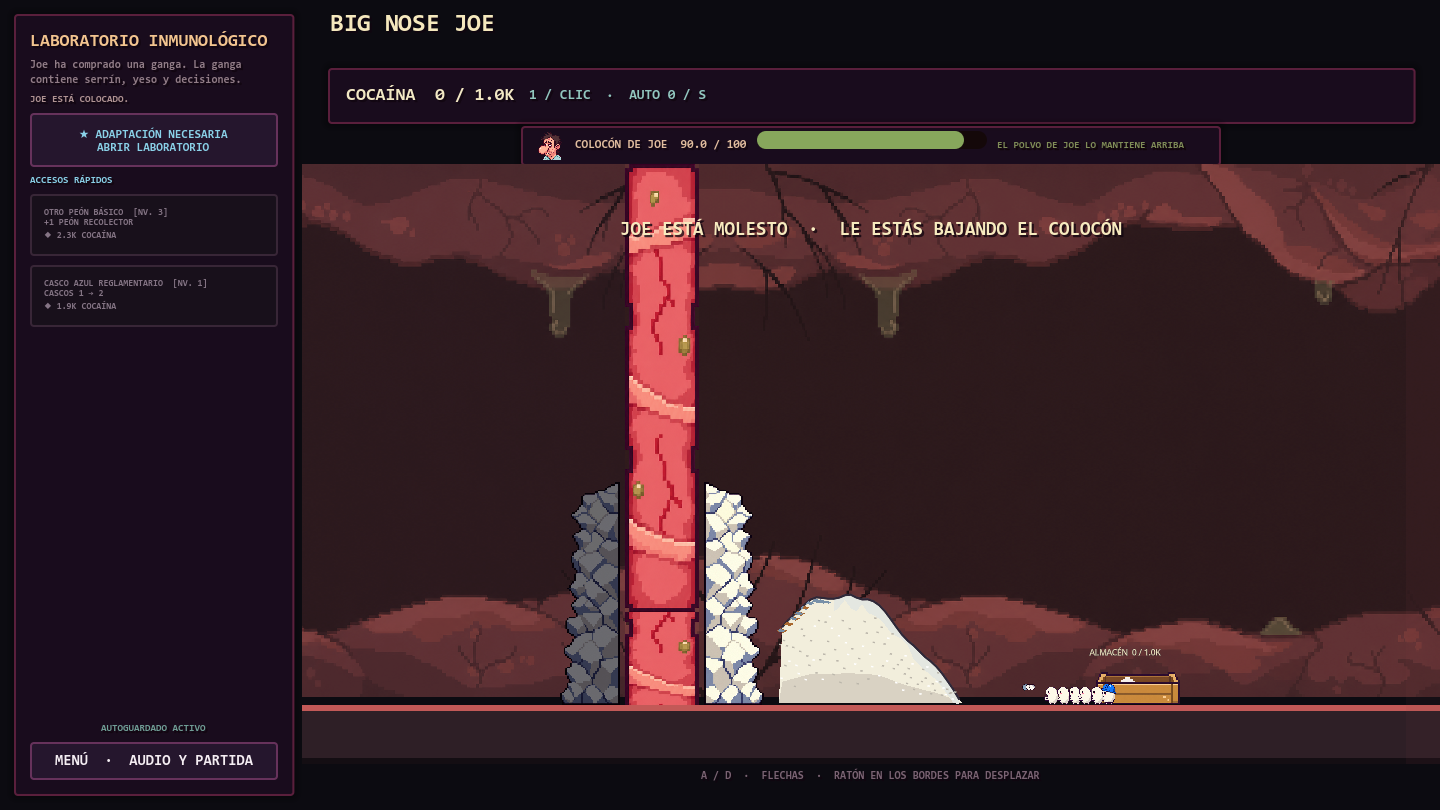
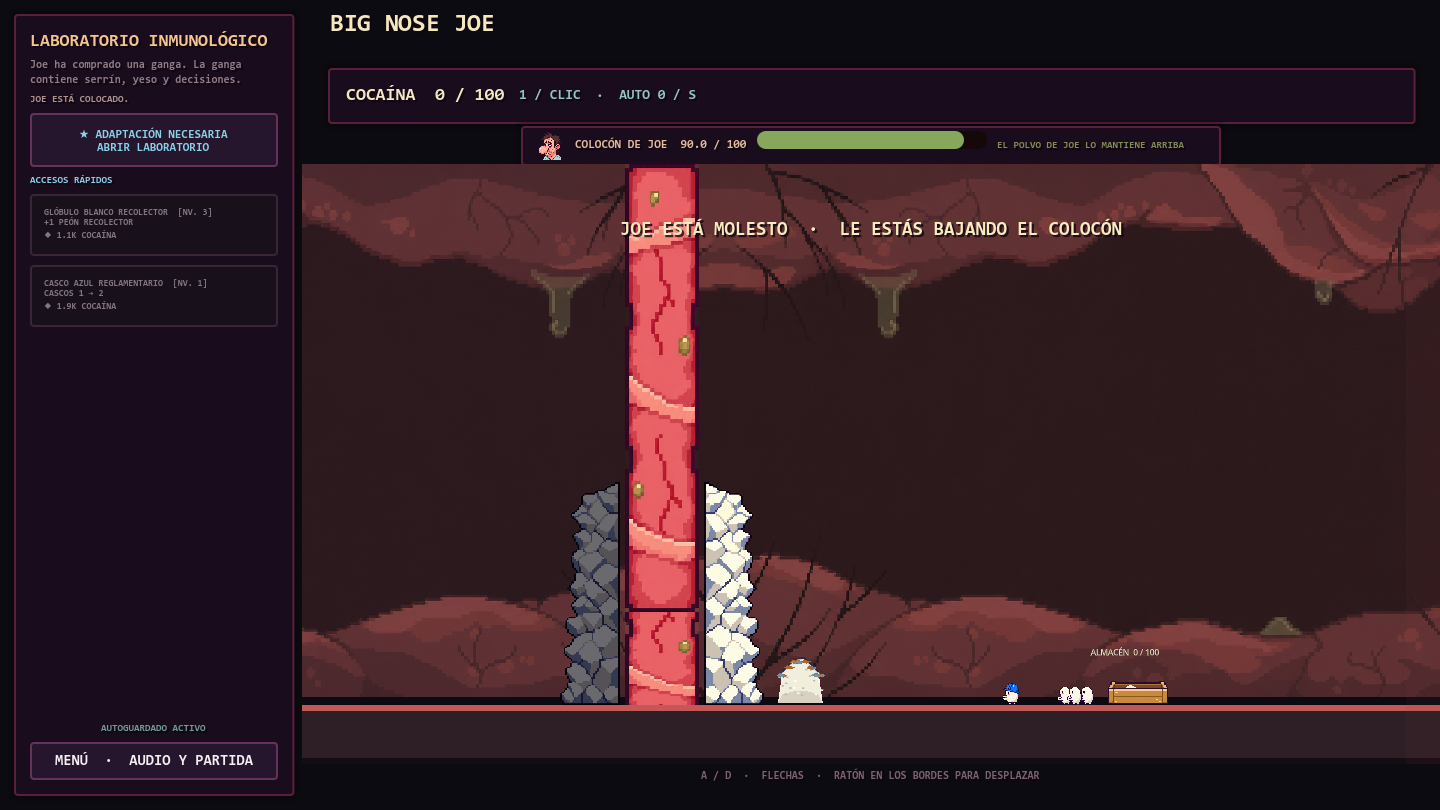
Cambios en la nieve

diff --git a/README.md b/README.md
@@ -27,19 +27,19 @@ La tienda lineal ha sido sustituida por el `LABORATORIO DE ADAPTACIONES`. El cat
 4. `SPRAY NASAL DEL BAZAR` — 34%: el spray bloquea y reconstruye pared; el moco verde empieza a repetirse en esta misma fase. Los `MACRÓFAGOS ESPONJA` y las `CATAPULTAS MUCOLÍTICAS` resuelven ambos problemas.
 5. `VOLCÁN ZOOLÓGICO` — 18%: comienzan hemorragia, daño tisular, bacterias, plaquetas y cuidadores mientras todas las locuras anteriores continúan activas.
 
-Las fases ya no avanzan por tiempo ni por entregas. Joe empieza al 90% y cada tramo se desbloquea cuando el jugador logra reducir su colocón hasta 70%, 52%, 34% y 18%. Cada umbral provoca inmediatamente la nueva barbaridad y añade su temporizador al repertorio permanente. El medidor principal de colocón ocupa el centro superior: picar la pared lo hace bajar al instante, muestra las unidades reales extraídas y pulsa en azul; almacenar ese mismo polvo no aplica la reducción dos veces. La versión 18 reinicia los guardados anteriores para estrenar limpiamente la nueva escala de extracción.
+Las fases ya no avanzan por tiempo ni por entregas. Joe empieza al 90% y cada tramo se desbloquea cuando el jugador logra reducir su colocón hasta 70%, 52%, 34% y 18%. Cada umbral provoca inmediatamente la nueva barbaridad y añade su temporizador al repertorio permanente. El medidor principal de colocón ocupa el centro superior: picar la pared lo hace bajar al instante, muestra las unidades reales extraídas y pulsa en azul; almacenar ese mismo polvo no aplica la reducción dos veces. La versión 19 inicia una run limpia: no regala porteadores, parte de una bandeja de 100 unidades y descarta los guardados de prototipos anteriores.
 
 ## Cocaína, apelmazado y transporte
 
 El polvo se representa como una única superficie de nieve continua: cada unidad extraída ocupa exactamente un píxel de pantalla de área, aunque internamente se agrupe en cargas ligeras para conservar el rendimiento. Por eso una descarga de 50 hace crecer la montaña 50 píxeles de masa y una descarga de 500.000 ocupa 500.000: no hay multiplicadores visuales ocultos ni una bolita gigante de valor arbitrario. La silueta forma lomas y valles, nunca torres de canicas. Los pedruscos conservan su propia capa interactiva y pueden sostener pendientes como muros de contención. El tabique actúa como un límite duro: ningún grano ni pedrusco puede atravesarlo o dibujarse por encima de la pared compacta.
 
-La fosa tiene aforo físico. El `LEUCOTOPÓGRAFO DE 1927` muestra su llenado en tiempo real desde el principio: la primera excavación admite 75K de polvo. Si llega al límite, se detiene todo el minado —manual y automático— mientras los porteadores siguen retirando nieve. La tecnología `GALERÍA SUBMUCOSA` desplaza el almacén y abre volumen profundo hasta 600K. No es un requisito impuesto por una fase: solo se vuelve imprescindible cuando el jugador ha decidido llenar la fosa. En fase 3, la `PRENSA DEL SUMIDERO` inaugura la compresión visible y escala el aforo a 100M, 50B y 100T para acompañar a Leucofante, plasma y Supersaiyan.
+El hueco inicial admite 75K de polvo, pero no se presenta todavía como una fosa ni enseña instrumentación que el jugador no ha construido. Si llega al límite, se detiene todo el minado —manual y automático— mientras los porteadores siguen retirando nieve. La tecnología `FOSA SUBMUCOSA` desplaza el almacén, abre volumen profundo hasta 600K y hace aparecer tanto al `LEUCOTOPÓGRAFO DE 1927` como su medidor en tiempo real. No es un requisito impuesto por una fase: solo se vuelve imprescindible cuando el jugador ha decidido llenar el espacio inicial. En fase 3, la `PRENSA DEL SUMIDERO` inaugura la compresión visible y escala el espacio a 100M, 50B y 100T para acompañar a Leucofante, plasma y Supersaiyan.
 
 La primera `OTRA RAYITA` presenta el apelmazado antes del umbral del 70%, con un máximo introductorio de dos pedruscos. El primero revela y marca en azul la mejora de cascos. Al entrar en la segunda fase el límite sube a ocho. Un grano con al menos cinco vecinos cercanos forma un pedrusco de seis unidades. Con producción tranquila se comprueba el montón cada 24 aterrizajes; por encima de dos clics por segundo baja a 18 y por encima de cuatro baja a 12. La extracción automática puede llevar la cadencia hasta un mínimo de ocho aterrizajes. Los pedruscos conservan su valor, bloquean la recogida y solo los cascos azules pueden tratarlos y llevarlos.
 
 Los peones recorren un ciclo físico de recogida y transporte: salen vacíos de la caja, extraen piezas expuestas de la superficie y las representan como una pequeña pila de nieve delante del cuerpo antes de depositarla dentro del almacén. La mini-pila es una sola silueta visual; las piezas conservan su valor real en la lógica. No minan la pared; esa función pertenece al jugador y a las unidades de extracción. Peón y carga pasan a capas de primer plano durante el transporte, por lo que ningún almacén puede ocultarlos. Tras desbloquear los cascos azules, `APELMAZADO INTELIGENTE` les permite agrupar 3, 5, 8 y finalmente 12 granos normales dentro de cada mini-pila; los pedruscos hostiles siguen siendo trabajo exclusivo de los cascos azules. `TRABAJO EN CADENA` se muestra desde el laboratorio, pero solo puede comprarse después de perforar el tabique.
 
-Los peones blancos se dedican exclusivamente a recoger y transportar. La logística crece como una cadena visible y separada: cajón de 1.000, contenedor de 5.000, doble fondo de 25.000, almacén alveolar de 100.000, silo de 2 millones, silo ampliado de 10 millones, bóveda presurizada de 100 millones, bóveda hiperbárica de 1.000 millones, planta de 10.000 millones y planta de fusión de 100.000 millones. Cada salto fuerte de transporte exige primero la instalación capaz de recibirlo: el carrito avanza 12 → 60 → 300 → 1.500 unidades y el `MUGIDÓFILO DE CARGA`, 10.000 → 150.000 → 6,5 millones → 100 millones → 10.000 millones. Son mejoras numéricas de los vehículos y edificios existentes, no unidades nuevas. Con toda la logística de fase 2, la recogida ronda 479K/s frente a 471K/s de extracción combinada entre ocho púgiles y el Leucocarnero: puede vaciar el pico de producción sin chocar contra un almacén pequeño. Las ampliaciones posteriores acompañan al Leucofante y al plasma; la carga final del Supersaiyan la retira el Expreso.
+Los peones blancos se dedican exclusivamente a recoger y transportar. Una run comienza sin ninguno: el primer glóbulo blanco es la primera contratación del jugador. La logística crece como una cadena visible y separada: bandeja de 100, contenedor de 1.000, doble fondo de 5.000, almacén alveolar de 100.000, silo de 2 millones, silo ampliado de 10 millones, bóveda presurizada de 100 millones, bóveda hiperbárica de 1.000 millones, planta de 10.000 millones y planta de fusión de 100.000 millones. Cada salto fuerte de transporte exige primero la instalación capaz de recibirlo: el carrito avanza 12 → 60 → 300 → 1.500 unidades y el `MUGIDÓFILO DE CARGA`, 10.000 → 150.000 → 6,5 millones → 100 millones → 10.000 millones. Son mejoras numéricas de los vehículos y edificios existentes, no unidades nuevas. Con toda la logística de fase 2, la recogida ronda 479K/s frente a 471K/s de extracción combinada entre ocho púgiles y el Leucocarnero: puede vaciar el pico de producción sin chocar contra un almacén pequeño. Las ampliaciones posteriores acompañan al Leucofante y al plasma; la carga final del Supersaiyan la retira el Expreso.
 
 El Expreso se desbloquea al final, después de abrir la segunda fosa y construir la planta. Recoge en la fosa derecha, sale cargado por un túnel del extremo derecho y reaparece por el extremo izquierdo para descargar en la planta. El viaje vacío hace el circuito inverso. No existen vías sobre el tabique ni cruces visibles entre fosas. La caja y cada edificio tienen límite real; cuando se llenan, las entregas se detienen hasta que el jugador gasta cocaína o amplía el almacén.
 
@@ -47,11 +47,11 @@ El jugador también puede intervenir directamente en la logística. Al pulsar so
 
 ## Arquitectura para partículas masivas
 
-El polvo jugable ya no crea un `Sprite2D` por bolita. Cada grano es un objeto de datos ligero y se dibuja mediante `RenderingServer` en `MultiMesh` separados por fosa, textura, material y estado —montaña o carga—. Veinte mil granos equivalentes ocupan muy pocos lotes y añaden cero nodos de partícula al árbol de escenas. Los pedruscos conservan únicamente sus grietas como nodos escasos e interactivos.
+El polvo jugable ya no crea un `Sprite2D` por bolita. Cada carga es un objeto de datos ligero, pero toda la masa ordinaria se dibuja como una única superficie procedural por fosa: veinte mil granos equivalentes no necesitan lotes de sprites ni veinte mil nodos. `RenderingServer` queda reservado para las excepciones visuales que sí deben conservar identidad propia. Los pedruscos mantienen sus grietas como nodos escasos e interactivos.
 
 Las alturas, superficies, cargas y pedruscos se indexan por fosa y columna. Colocar o consultar una bola no recorre el montón completo; el apelmazado construye una cuadrícula local y solo compara celdas vecinas. Todas las caídas y vuelos manuales comparten un único actualizador, sin un `Tween` por partícula. El tren reclama y deposita cargas masivas por lotes y el guardado agrupa secuencias equivalentes dentro de cada columna.
 
-La prueba de regresión fija veinte mil partículas individuales como carga de referencia: exige cero nodos de polvo, un único lote para una textura común, búsqueda espacial acotada, transporte sin borrado cuadrático y un guardado compacto inferior a 500 KB.
+La prueba de regresión fija veinte mil unidades como carga de referencia: exige al menos 60 FPS, cero lotes de bolitas ordinarias, una sola superficie, búsqueda espacial acotada, transporte sin borrado cuadrático y un guardado compacto inferior a 500 KB.
 
 ## Pared y colocón de Joe
 
